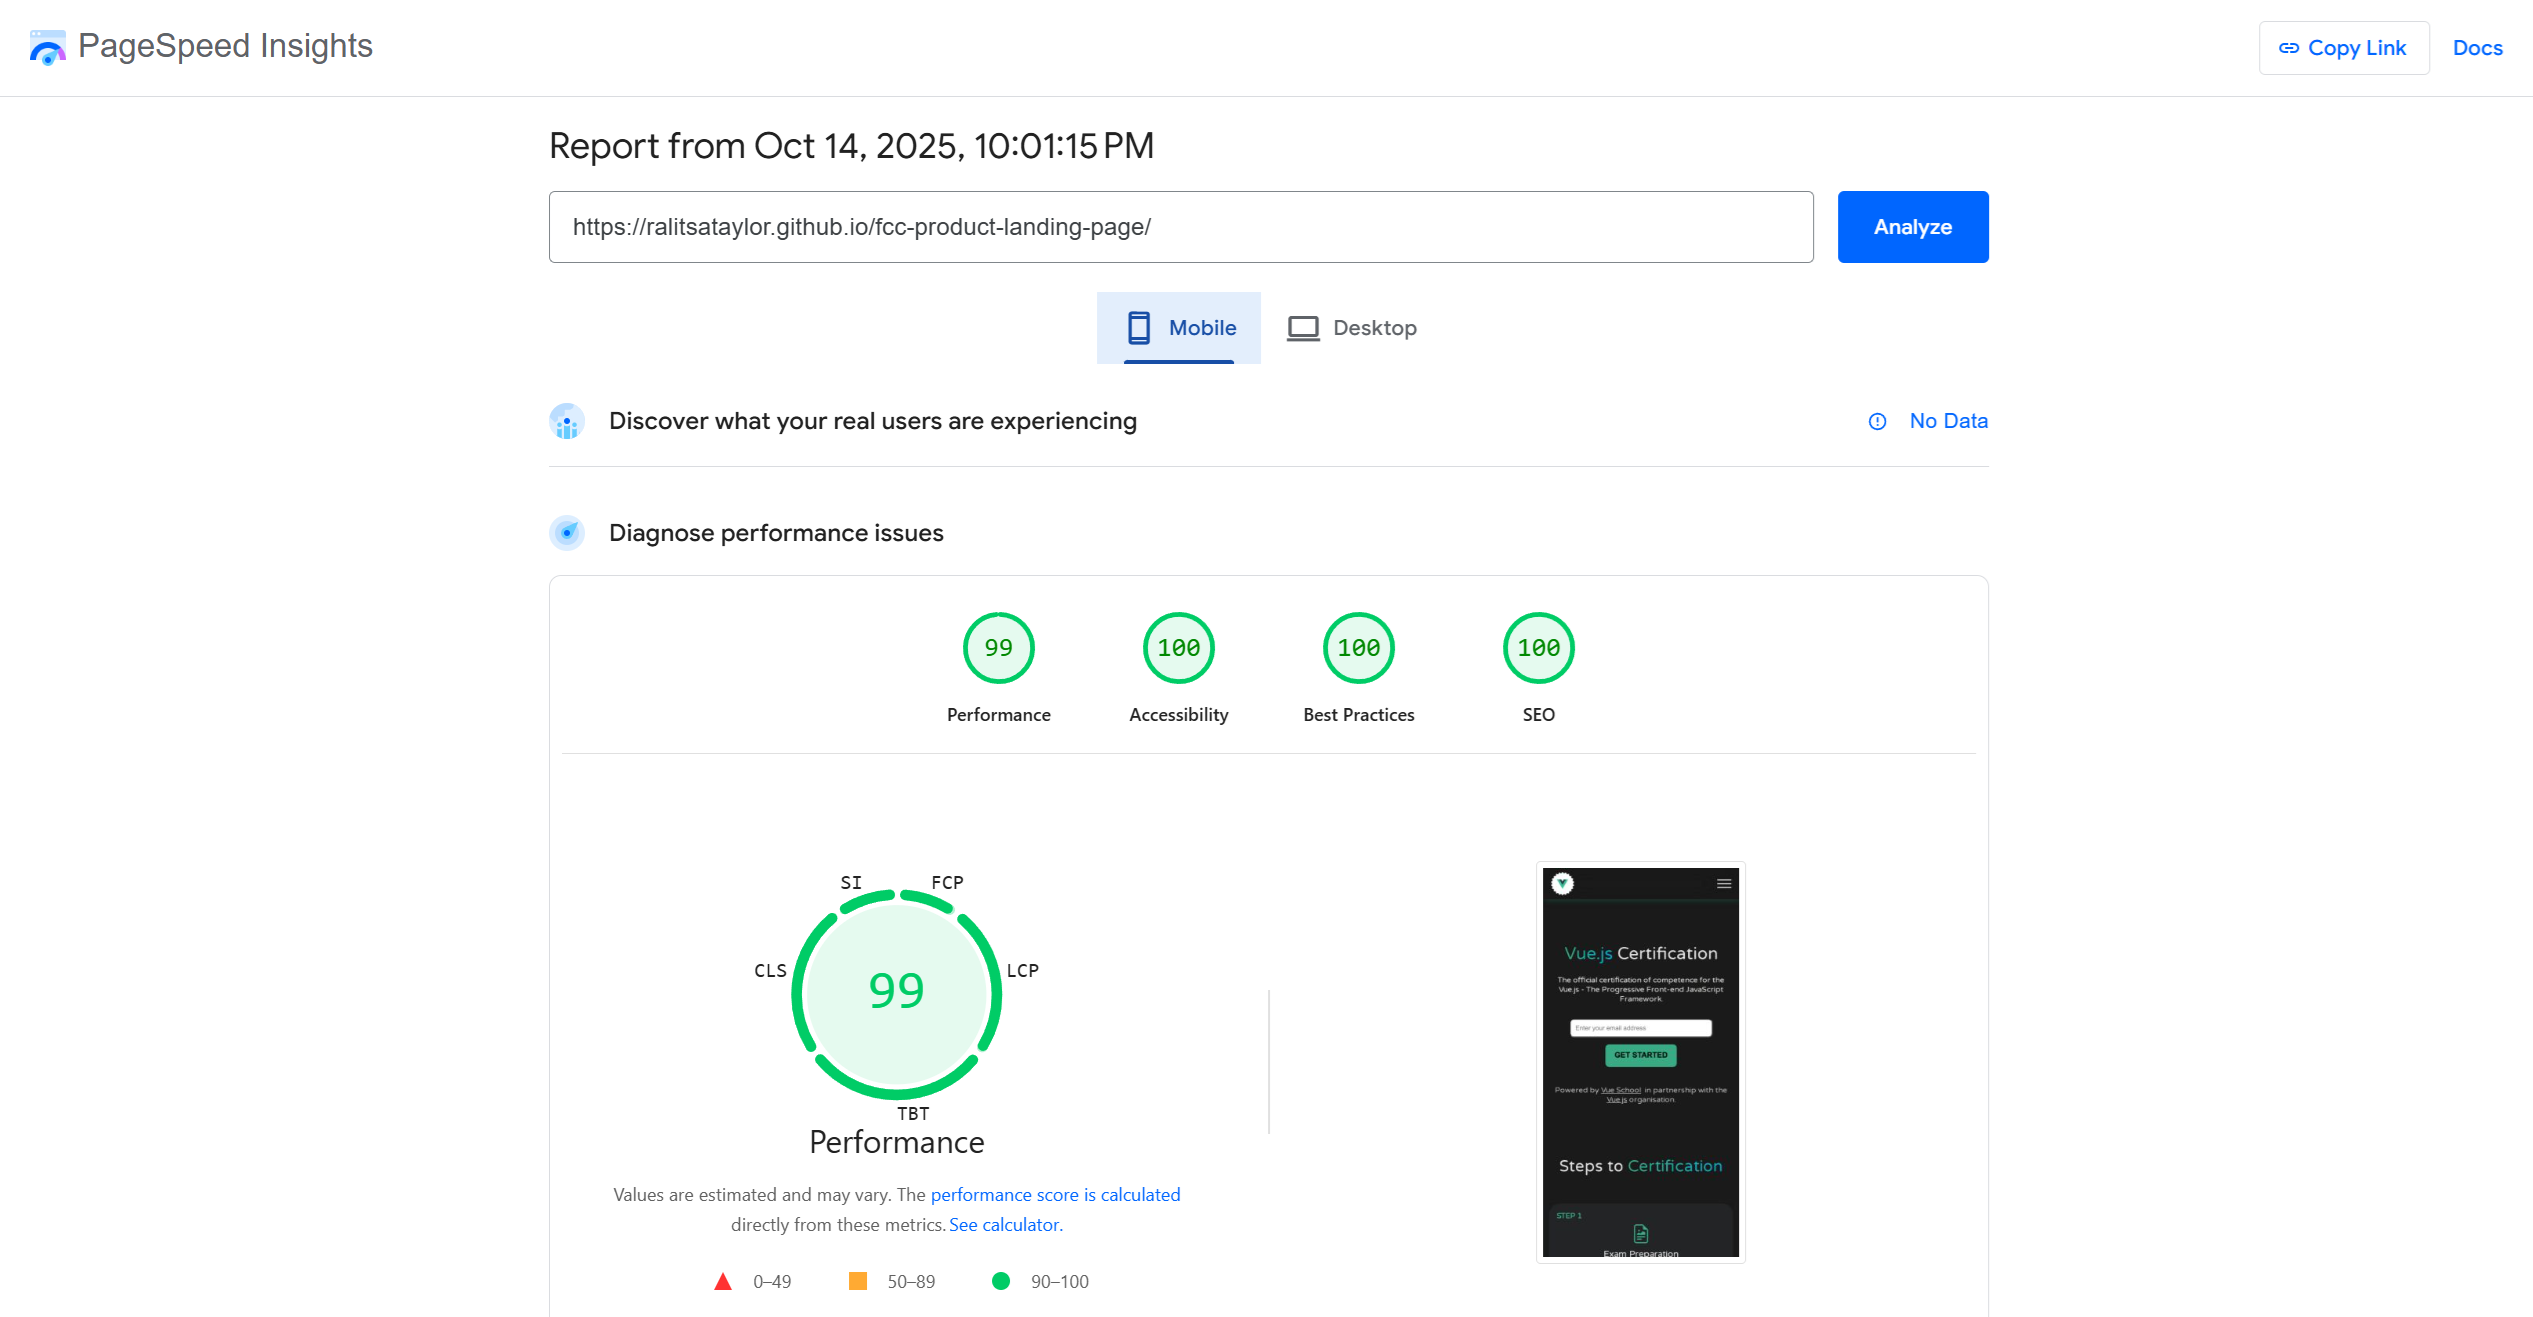
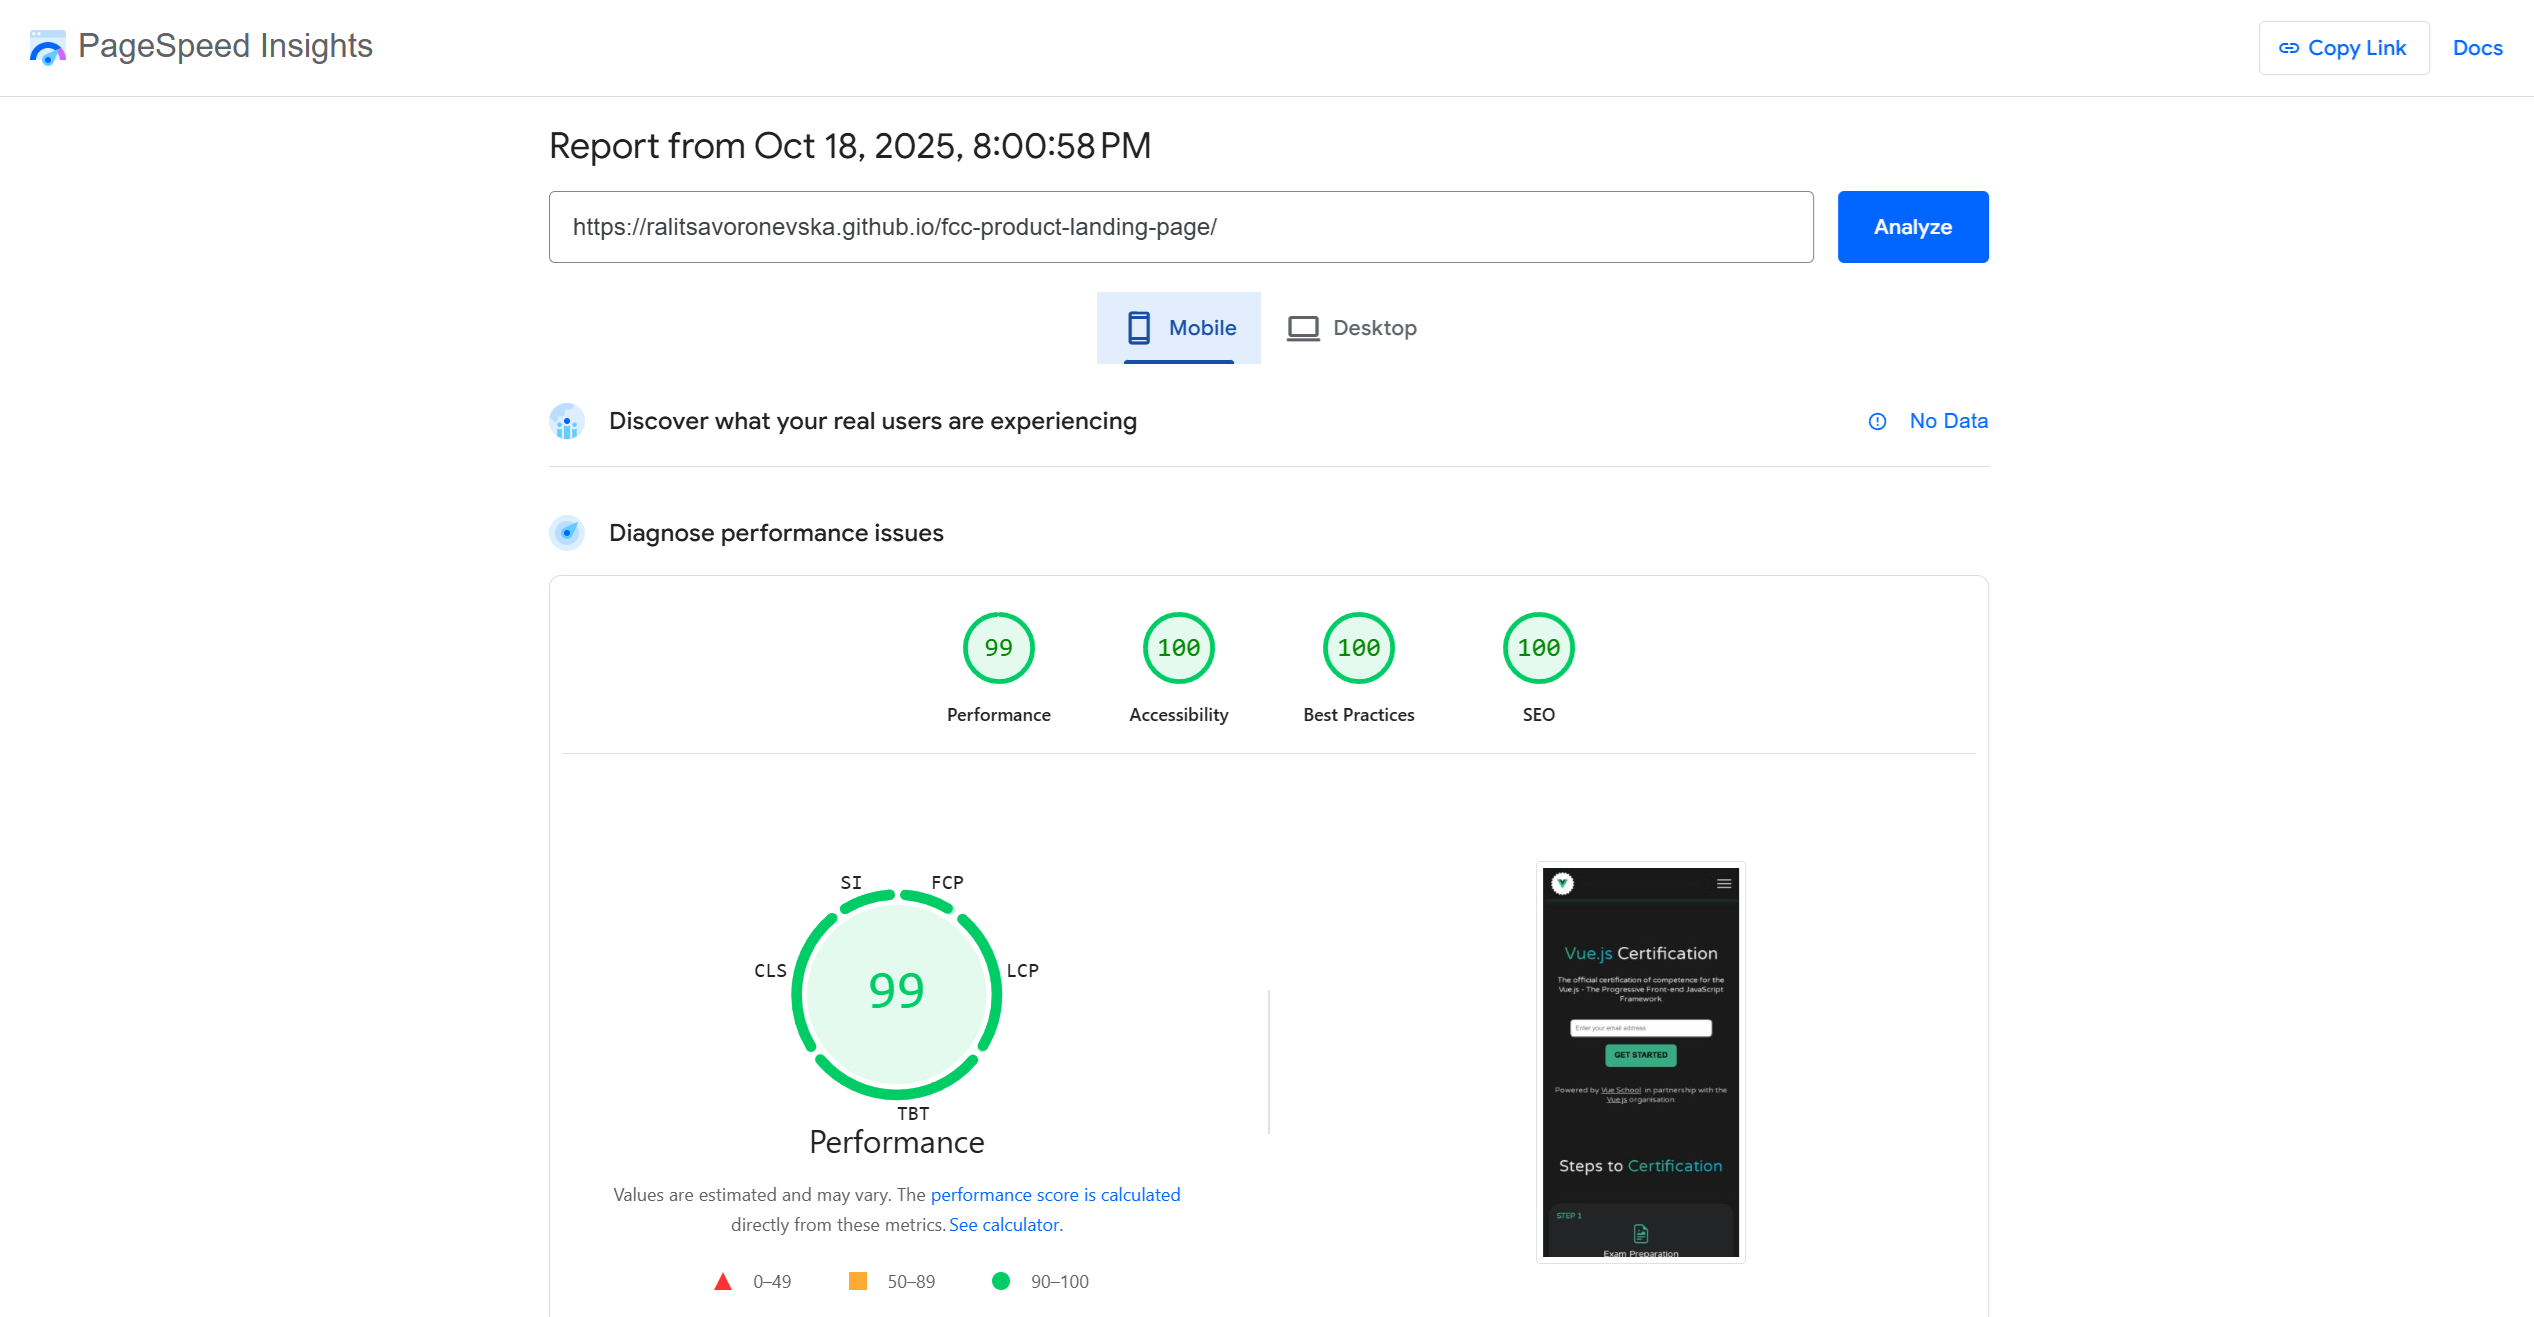
Updates

diff --git a/index.html b/index.html
@@ -8,22 +8,22 @@
     <title>FCC: Build A Product Landing Page</title>
     <meta name="theme-color" content="#42b883">
     <meta name="description" content="FCC: Build A Product Landing Page">
-    <meta name="web_author" content="Ralitsa Taylor">
-    <link rel="canonical" href="https://ralitsataylor.github.io/fcc-product-landing-page/">
+    <meta name="web_author" content="Ralitsa Voronevska">
+    <link rel="canonical" href="https://ralitsavoronevska.github.io/fcc-product-landing-page/">
 
     <!-- Open Graph / Facebook -->
     <meta property="og:type" content="website">
-    <meta property="og:url" content="https://ralitsataylor.github.io/fcc-product-landing-page/">
+    <meta property="og:url" content="https://ralitsavoronevska.github.io/fcc-product-landing-page/">
     <meta property="og:title" content="FCC: Build A Product Landing Page">
     <meta property="og:description" content="FCC: Build A Product Landing Page">
-    <meta property="og:image" content="https://ralitsataylor.github.io/fcc-product-landing-page/dist/img/fcc-product-landing-page-desktop-preview.png">
+    <meta property="og:image" content="https://ralitsavoronevska.github.io/fcc-product-landing-page/dist/img/fcc-product-landing-page-desktop-preview.png">
 
     <!-- Twitter -->
     <meta name="twitter:card" content="summary_large_image">
-    <meta name="twitter:url" content="https://ralitsataylor.github.io/fcc-product-landing-page/">
+    <meta name="twitter:url" content="https://ralitsavoronevska.github.io/fcc-product-landing-page/">
     <meta name="twitter:title" content="FCC: Build A Product Landing Page">
     <meta name="twitter:description" content="FCC: Build A Product Landing Page">
-    <meta name="twitter:image" content="https://ralitsataylor.github.io/fcc-product-landing-page/dist/img/fcc-product-landing-page-desktop-preview.png">
+    <meta name="twitter:image" content="https://ralitsavoronevska.github.io/fcc-product-landing-page/dist/img/fcc-product-landing-page-desktop-preview.png">
 
     <!-- Icons -->
     <link rel="icon" type="image/svg+xml" href="img/svgs/favicon.svg">
@@ -453,8 +453,8 @@
         </li>
       </ul>
       <p class="mt-3 mb-0">
-        <a href="http://ralitsataylor.github.io/modern-portfolio/" class="text-decoration-underline"
-          target="_blank" rel="noopener">&#60;Ralitsa Taylor&#47;&#62;</a> <span class="mt-0">&copy; 2025</span>
+        <a href="http://ralitsavoronevska.github.io/modern-portfolio/" class="text-decoration-underline"
+          target="_blank" rel="noopener">&#60;Ralitsa Voronevska&#47;&#62;</a> <span class="mt-0">&copy; 2025</span>
       </p>
     </footer>
 
